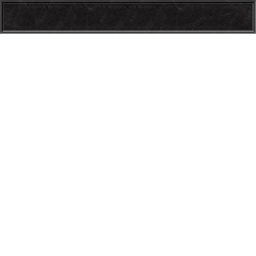
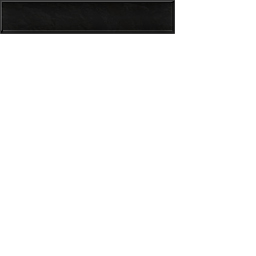
- improved example and fixed GUILabel

Changed region(s): [[0.0, 0.0, 1.0, 0.1562]]

diff --git a/src/de/gemo/game/manager/gui/MyGUIManager1.java b/src/de/gemo/game/manager/gui/MyGUIManager1.java
@@ -81,7 +81,7 @@ public class MyGUIManager1 extends GUIManager {
             TextureManager.addTexture("BTN_1", buttonMultiTexture);
 
             // LOAD TEXTFIELD TEXTURE
-            SingleTexture editTexture = TextureManager.loadSingleTexture("edit_normal.jpg", 0, 0, 256, 34);
+            SingleTexture editTexture = TextureManager.loadSingleTexture("edit_normal.jpg", 0, 0, 175, 34);
             TextureManager.addTexture("EDIT_1", TextureManager.SingleToMultiTexture(editTexture));
         } catch (Exception e) {
             e.printStackTrace();
@@ -92,13 +92,13 @@ public class MyGUIManager1 extends GUIManager {
     protected void initGUI() {
         try {
             // CREATE GUI
-            gui = new GUIGraphic(640, 512, TextureManager.getTexture("GUI_1"));
+            gui = new GUIGraphic(0, 0, TextureManager.getTexture("GUI_1"));
             gui.setZ(0);
 
             // CREATE COUNTDOWNS
-            countdown = new GUIGraphic(1181 + 36, 800, TextureManager.getTexture("countdown"));
+            countdown = new GUIGraphic(1110 + TextureManager.getTexture("countdown").getWidth(), 710, TextureManager.getTexture("countdown"));
             countdown.getAnimation().setWantedFPS(10);
-            countdown2 = new GUIGraphic(1181 - 36, 800, TextureManager.getTexture("countdown"));
+            countdown2 = new GUIGraphic(1110, 710, TextureManager.getTexture("countdown"));
 
             // CREATE EXIT-BUTTON
             Animation animationButton = new Animation(TextureManager.getTexture("BTN_1"));
@@ -106,7 +106,7 @@ public class MyGUIManager1 extends GUIManager {
             Color hoverColor = new Color(215, 165, 0);
             Color pressedColor = new Color(64, 64, 64);
 
-            GUIButton button = new GUIButton(1181, 990, animationButton);
+            GUIButton button = new GUIButton(1095, 975, animationButton);
             button.setLabel("Exit");
             button.setColor(normalColor);
             button.setHoverColor(hoverColor);
@@ -118,15 +118,13 @@ public class MyGUIManager1 extends GUIManager {
             this.add(button);
 
             // CREATE LABEL
-            GUILabel label = new GUILabel(0, 0, "Textfeld:");
-            label.setPositionOnScreen(15, 4);
+            GUILabel label = new GUILabel(1095, 845, "Textfeld:");
             label.setColor(Color.yellow);
             label.setMouseListener(listener);
             this.add(label);
 
             // CREATE TEXT-FIELD
-            GUITextfield textfield = new GUITextfield(0, 0, TextureManager.getTexture("EDIT_1"));
-            textfield.setPositionOnScreen(15, 20);
+            GUITextfield textfield = new GUITextfield(1095, 855, TextureManager.getTexture("EDIT_1"));
             textfield.setText("^^ Label!");
             textfield.setColor(Color.yellow);
             textfield.setFont(FontManager.getStandardFont());
@@ -135,7 +133,7 @@ public class MyGUIManager1 extends GUIManager {
 
             // ADD "Add Vertex"-Button
             AddButtonListener addListener = new AddButtonListener(guiManager.getVertexManager());
-            GUIButton addButton = new GUIButton(1181, 950, animationButton);
+            GUIButton addButton = new GUIButton(1095, 935, animationButton);
             addButton.setLabel("Add Vertex");
             addButton.setColor(normalColor);
             addButton.setHoverColor(hoverColor);
@@ -146,7 +144,7 @@ public class MyGUIManager1 extends GUIManager {
 
             // ADD "Delete Vertex"-Button
             RemoveButtonListener removeListener = new RemoveButtonListener(guiManager.getVertexManager(), guiManager);
-            btn_removeVertex = new GUIButton(1181, 910, animationButton);
+            btn_removeVertex = new GUIButton(1095, 895, animationButton);
             btn_removeVertex.setLabel("Delete Vertex");
             btn_removeVertex.setColor(normalColor);
             btn_removeVertex.setHoverColor(hoverColor);
@@ -157,8 +155,8 @@ public class MyGUIManager1 extends GUIManager {
             this.add(btn_removeVertex);
 
             // ADD VERTEX LABELS
-            this.lbl_position = new GUILabel(1181, 100, "Position: ___ / ___");
-            this.lbl_position.setPositionOnScreen(1100, 80);
+            this.lbl_position = new GUILabel(1095, 72, "Position: N/A");
+            this.lbl_position.setFont(FontManager.getFont(FontManager.VERDANA, Font.PLAIN, 20));
             this.add(lbl_position);
         } catch (Exception e) {
             e.printStackTrace();

diff --git a/src/de/gemo/engine/core/Engine.java b/src/de/gemo/engine/core/Engine.java
@@ -146,6 +146,7 @@ public class Engine {
         mouseManager = MouseManager.getInstance(this);
         soundManager = SoundManager.getInstance();
         debugMonitor = new StandardDebugMonitor();
+        mouseManager.grabMouse();
     }
 
     private void loadFonts() {
@@ -154,28 +155,19 @@ public class Engine {
     }
 
     private final void createGUI() {
-        float halfWidth = VIEW_WIDTH / 2f;
-        float halfHeight = VIEW_HEIGHT / 2f;
-
-        halfWidth = VIEW_WIDTH / 4f;
-        halfHeight = VIEW_HEIGHT / 4f;
-
-        Hitbox hitbox = new Hitbox(0, 0);
-        hitbox.addPoint(20, 63);
-        hitbox.addPoint(1080, 63);
-        hitbox.addPoint(1080, VIEW_HEIGHT - 20);
-        hitbox.addPoint(20, VIEW_HEIGHT - 20);
+        Hitbox hitbox = new Hitbox(550, 535);
+        hitbox.addPoint(-530, -470);
+        hitbox.addPoint(530, -470);
+        hitbox.addPoint(530, 470);
+        hitbox.addPoint(-530, 470);
         MyGUIManager2 manager = new MyGUIManager2("GUI2", hitbox, this.mouseManager.getMouseVector(), -1);
         this.registerGUIManager(manager);
 
-        halfWidth = VIEW_WIDTH / 2f;
-        halfHeight = VIEW_HEIGHT / 2f;
-
-        hitbox = new Hitbox(halfWidth, halfHeight);
-        hitbox.addPoint(-halfWidth, -halfHeight);
-        hitbox.addPoint(halfWidth, -halfHeight);
-        hitbox.addPoint(halfWidth, halfHeight);
-        hitbox.addPoint(-halfWidth, halfHeight);
+        hitbox = new Hitbox(1185, 512);
+        hitbox.addPoint(-95, -447);
+        hitbox.addPoint(95, -447);
+        hitbox.addPoint(95, 512);
+        hitbox.addPoint(-95, 512);
         this.registerGUIManager(new MyGUIManager1("GUI", hitbox, this.mouseManager.getMouseVector(), 0));
 
         this.initGUIManager(this.getGUIManager("GUI2"));

diff --git a/src/de/gemo/engine/entity/Entity2DClickable.java b/src/de/gemo/engine/entity/Entity2DClickable.java
@@ -15,36 +15,42 @@ public class Entity2DClickable extends Entity2D implements IClickable {
         super(x, y, singleTexture);
         this.autoGenerateClickbox();
         this.setCenter(x, y);
+        this.setPositionOnScreen(x, y);
     }
 
     public Entity2DClickable(Vector center, SingleTexture singleTexture) {
         super(center, singleTexture);
         this.autoGenerateClickbox();
         this.setCenter(center);
+        this.setPositionOnScreen(center.getX(), center.getY());
     }
 
     public Entity2DClickable(float x, float y, MultiTexture multiTexture) {
         super(x, y, multiTexture);
         this.autoGenerateClickbox();
         this.setCenter(x, y);
+        this.setPositionOnScreen(x, y);
     }
 
     public Entity2DClickable(Vector center, MultiTexture multiTexture) {
         super(center, multiTexture);
         this.autoGenerateClickbox();
         this.setCenter(center);
+        this.setPositionOnScreen(center.getX(), center.getY());
     }
 
     public Entity2DClickable(float x, float y, Animation animation) {
         super(x, y, animation);
         this.autoGenerateClickbox();
         this.setCenter(x, y);
+        this.setPositionOnScreen(x, y);
     }
 
     public Entity2DClickable(Vector center, Animation animation) {
         super(center, animation);
         this.autoGenerateClickbox();
         this.setCenter(center);
+        this.setPositionOnScreen(center.getX(), center.getY());
     }
 
     @Override

diff --git a/src/de/gemo/game/manager/gui/MyGUIManager2.java b/src/de/gemo/game/manager/gui/MyGUIManager2.java
@@ -36,7 +36,7 @@ public class MyGUIManager2 extends GUIManager {
             if (this.hasFocusedElement()) {
                 guiManager.getLbl_position().setLabel("Position: " + getFocusedElement().getXOnScreen() + " / " + getFocusedElement().getYOnScreen());
             } else {
-                guiManager.getLbl_position().setLabel("Position: ___ / ___");
+                guiManager.getLbl_position().setLabel("Position: N/A");
             }
         }
     }
@@ -47,7 +47,7 @@ public class MyGUIManager2 extends GUIManager {
         if (this.hasFocusedElement()) {
             guiManager.getLbl_position().setLabel("Position: " + getFocusedElement().getXOnScreen() + " / " + getFocusedElement().getYOnScreen());
         } else {
-            guiManager.getLbl_position().setLabel("Position: ___ / ___");
+            guiManager.getLbl_position().setLabel("Position: N/A");
         }
     }
 
@@ -59,7 +59,7 @@ public class MyGUIManager2 extends GUIManager {
         this.selectedVertex = selectedVertex;
         if (selectedVertex == null) {
             this.guiManager.getBtn_removeVertex().setVisible(false);
-            this.guiManager.getLbl_position().setLabel("Position: ___ / ___");
+            this.guiManager.getLbl_position().setLabel("Position: N/A");
             this.unfocusElement();
 
         } else {

diff --git a/src/de/gemo/game/manager/gui/VertexManager.java b/src/de/gemo/game/manager/gui/VertexManager.java
@@ -27,7 +27,7 @@ public class VertexManager {
         vertex.setMouseListener(mouseListener);
         guiManager2.unfocusElement();
         guiManager2.add(vertex);
-        guiManager1.getBtn_removeVertex().setVisible(false);
+        guiManager1.getBtn_removeVertex().setVisible(true);
         guiManager1.getLbl_position().setLabel("Position: " + x + " / " + y);
         vertexList.put(vertex.getEntityID(), vertex);
         guiManager2.focusElement(vertex);

diff --git a/src/de/gemo/engine/gui/GUILabel.java b/src/de/gemo/engine/gui/GUILabel.java
@@ -52,9 +52,12 @@ public class GUILabel extends GUIElement {
     }
 
     public void setFont(UnicodeFont font) {
+        int oldX = this.getXOnScreen();
+        int oldY = this.getYOnScreen();
         this.font = font;
         this.setLabel(this.getLabel());
         this.textHeight = (int) (this.font.getHeight("Z") / 2f + this.font.getYOffset("Z") / 2f);
+        this.setPositionOnScreen(oldX, oldY);
     }
 
     public UnicodeFont getFont() {

diff --git a/src/de/gemo/engine/manager/FontManager.java b/src/de/gemo/engine/manager/FontManager.java
@@ -10,7 +10,7 @@ import org.newdawn.slick.font.effects.ConfigurableEffect;
 
 public class FontManager {
 
-    public static final String VERDANA = "Verdana";
+    public static final String VERDANA = "Analog";
 
     private static UnicodeFont standardFont;
     private static HashMap<String, UnicodeFont> fontMap;
